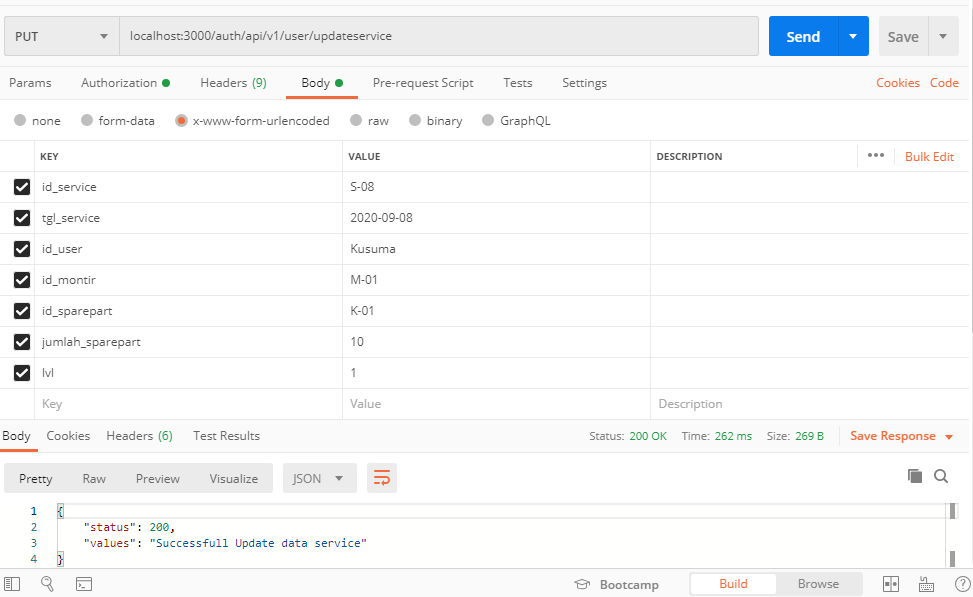
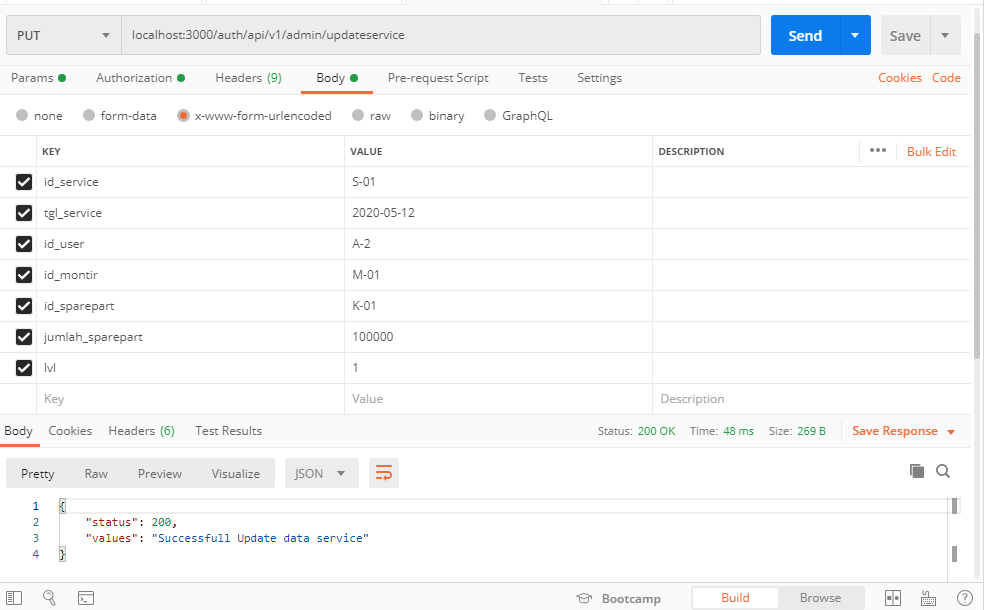
success add montir

diff --git a/middleware/auth.js b/middleware/auth.js
@@ -97,14 +97,6 @@ exports.login = function(req,res){
     });
 }
 
-exports.loginadmin = function(req,res){
-    response.ok("Success Page Level = 1!",res);
-}
-
-exports.loginuser=function(req,res) {
-    response.ok("Success Page Level = 2! ",res);
-}
-
 
 
                 //No.2 POST
@@ -183,6 +175,53 @@ exports.upservice = function (req, res) {
 
 
 
-//input data t_montir
-//update data t_montir
-//delete data t_montir
+//=====================================================t_montir===========================ADMIN======================
+//post input t_montir
+exports.addmontir = function(req, res) {
+    var post = {
+        id_montir: req.body.id_montir,
+        nama_montir: req.body.nama_montir,
+        hargaperjam: req.body.hargaperjam
+    }
+
+    var query = "SELECT id_montir FROM ?? WHERE ??=?";
+    var table = ["t_montir", "id_montir", post.id_montir];
+
+    query = mysql.format(query,table);
+
+    connection.query(query, function(error,rows){
+        if(error){
+            console.log(error);
+        }else{
+            if(rows.length == 0){
+                var query = "INSERT INTO ?? SET ?";
+                var table = ["t_montir"];
+                query = mysql.format(query,table);
+                connection.query(query, post, function(error, rows){
+                    if(error){
+                        console.log(error);
+                    }else{
+                        response.ok("Success add Montir", res);
+                    }
+                });
+            }else{
+                response.ok("Montir Already Exist!",res);
+            }
+        }
+    });
+};
+//put edit t_montir
+//delete t_montir
+//=====================================================t_sparepart========================ADMIN======================
+//post sparepart
+//put
+//delete
+//=====================================================t_user=============================ADMIN======================
+
+//post user
+//put
+//delete
+//=====================================================t_level============================ADMIN=====================
+//post level
+//put
+//delete

diff --git a/middleware/index.js b/middleware/index.js
@@ -5,7 +5,8 @@ var router = express.Router();
 //panggil fungsi
 var verif = require('./verif');
 
-
+var adm= verif.verifadmin();
+var usr= verif.verifuser();
 
 //==============================================================MENU REGISTRASI USER===============================
 router.post('/api/v1/register', auth.register);
@@ -13,14 +14,15 @@ router.post('/api/v1/login', auth .login);
 
 //=====================================================t_service==========================USER======================
 //add data t_service
-router.post('/api/v1/user/addservice',verif.verifuser(), auth.addservice);
-router.get('/api/v1/user/totalservice',verif.verifuser(), auth.totalservice);
-router.put('/api/v1/user/updateservice',verif.verifadmin(), auth.upservice);
-
+router.post('/api/v1/user/addservice',usr, auth.addservice);
+router.get('/api/v1/user/totalservice',usr, auth.totalservice);
+router.put('/api/v1/admin/updateservice',adm, auth.upservice);
 //=====================================================t_montir===========================ADMIN======================
 //post input t_montir
+router.post('/api/v1/admin/addmontir',adm, auth.addmontir);
 //put edit t_montir
 //delete t_montir
+
 //=====================================================t_sparepart========================ADMIN======================
 //post sparepart
 //put
